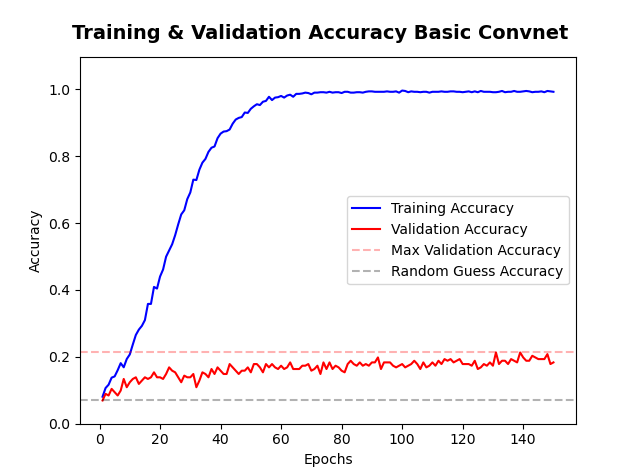
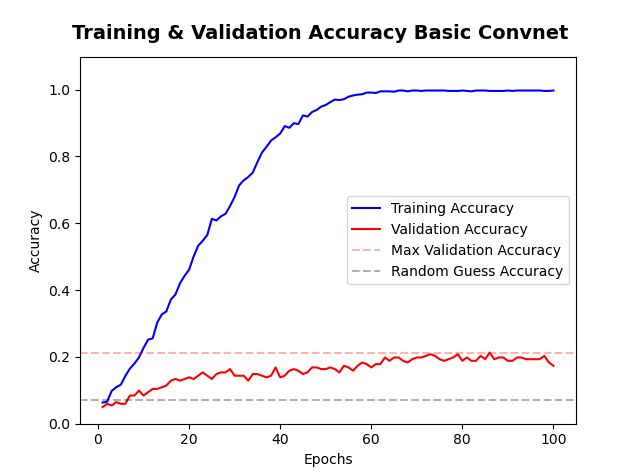
convnet figures update

diff --git a/04_basic_convnet_model_build.py b/04_basic_convnet_model_build.py
@@ -93,7 +93,7 @@ simple_convnet_model.summary()
 
 clf = simple_convnet_model.fit(train_images, 
                                train_labels, 
-                               epochs=150, 
+                               epochs=100, 
                                batch_size=batch_size,
                                validation_data=(test_images, test_labels))
 
@@ -113,10 +113,9 @@ fig, ax = plt.subplots()
 fig.suptitle('Training & Validation Loss Basic Convnet', y=0.95, fontsize=14, fontweight='bold')
 
 #plotting training and validation loss
-train_loss_line = ax.plot(epochs, loss_values, 'b', label='Training Loss')
-
-val_loss_line = ax.plot(epochs, val_loss, 'r', label='Validation Loss')
-val_hline = ax.axhline(min(val_loss), c='r', alpha=0.3, ls='dashed', label='Min Validation Loss')
+ax.plot(epochs, loss_values, 'b', label='Training Loss')
+ax.plot(epochs, val_loss, 'r', label='Validation Loss')
+ax.axhline(min(val_loss), c='r', alpha=0.3, ls='dashed', label='Min Validation Loss')
 
 #setting axis limits
 ax.set_ylim([min(loss_values)-0.5, min(loss_values)+8])
@@ -126,7 +125,7 @@ ax.legend()
 
 #plotting axis labels
 ax.set_xlabel('Epochs')
-ax.set_ylabel('Training Loss')
+ax.set_ylabel('Loss')
 
 train_predictions = simple_convnet_model.predict(train_images[:100])
 val_predictions = simple_convnet_model.predict(test_images[:100])
